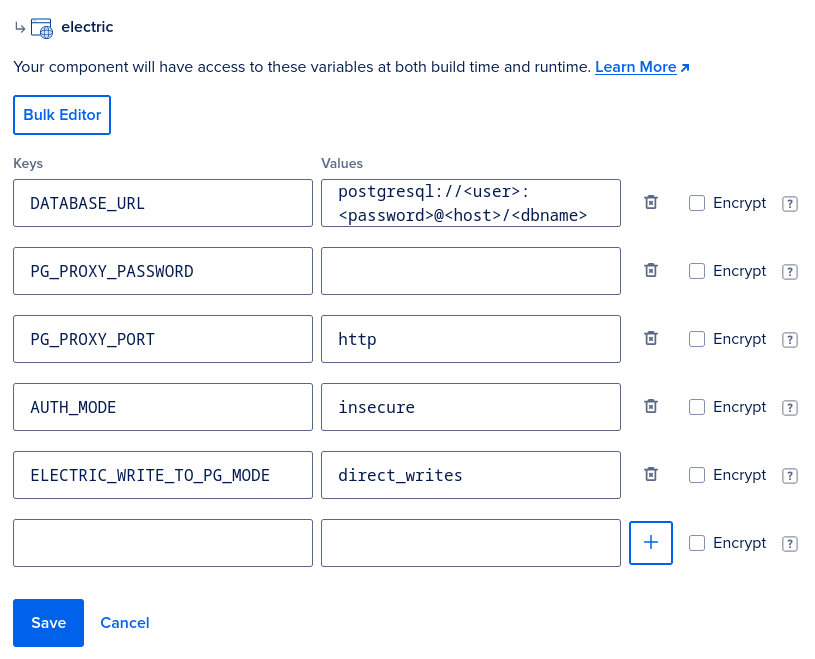
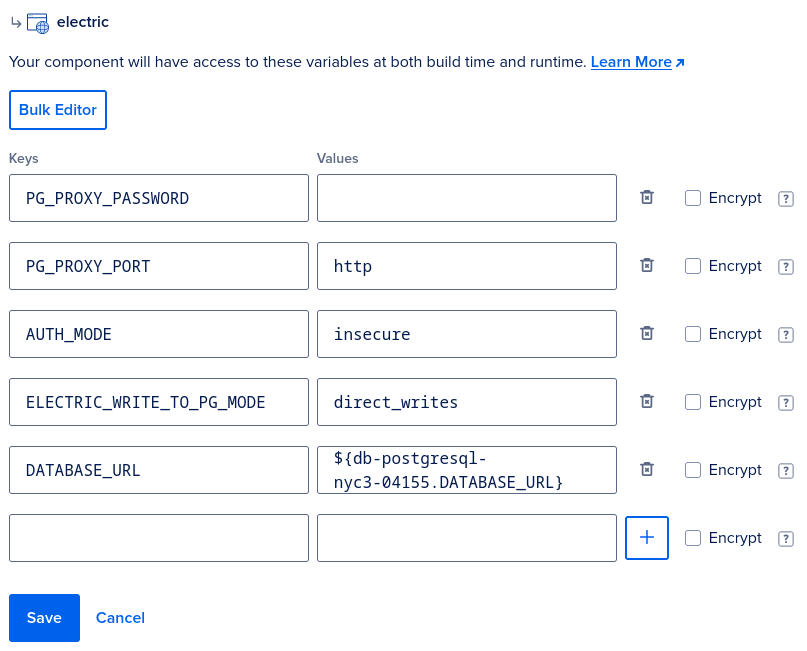
Update DigitalOcean deployment doc

diff --git a/docs/deployment/digital-ocean.md b/docs/deployment/digital-ocean.md
@@ -13,9 +13,13 @@ Make sure you have a DigitalOcean account with billing activated before you foll
 
 App Platform is a Platform-as-a-Service (PaaS) offering that allows developers to publish code directly to DigitalOcean servers without worrying about the underlying infrastructure.
 
-### Deploying Electric
+### Postgres with logical replication
 
-Before deploying Electric, make sure you have a Postgres database with logical replication enabled hosted somewhere where Electric will be able to connect to it. Retrieve your database's connection URI with password included and use it as the value of the `DATABASE_URL` variable when customizing the app.
+Before deploying Electric, you'll need a Postgres database (with logical replication enabled) hosted somewhere Electric can connect to. DigitalOcean offers [Managed PostgreSQL](https://docs.digitalocean.com/products/databases/postgresql/) which would be the easiest way to get started with Electric and a hosted Postgres at the same time, if you don't have one yet. Create a new database cluster and wait for it to become ready before proceeding to the next section.
+
+Alternatively, many other managed database providers support logical replication, see <DocPageLink path="usage/installation/postgres#hosting" /> for some options. If you choose not to use DigitalOcean's Managed PostgreSQL, retrieve your database's connection URI with password included from your provider and use it as the value of the `DATABASE_URL` variable when setting up the app.
+
+### Deploying Electric
 
 Click on the "Deploy to DO" button below to be taken to DigitalOcean's Create App wizard.
 
@@ -25,21 +29,39 @@ Click on the "Deploy to DO" button below to be taken to DigitalOcean's Create Ap
 
 </div>
 
+You may need to log in or create a new account first. Once signed in, you should see the *Resources* page of the Create App wizard.
+
 ![Create App: Resources](./digital-ocean/create-app/resources.png)
 
 Click on the "Edit Plan" button, pick the Basic plan and the Basic instance size. That will be enough to get started.
 
 ![Create App: Edit Plan](./digital-ocean/create-app/edit-plan.png)
 
-Go to the next page and click on the Edit link next to the `electric` service.
+:::info Configuring Managed PostgreSQL
+If you have set up a [Managed PostgreSQL cluster on DigitalOcean](https://docs.digitalocean.com/products/databases/postgresql/) for use with Electric, click on the "Add Resource (Optional)" label, pick the "Database" option and click on the "Add" button.
+
+![Create App: Database Resource](./digital-ocean/create-app/resources-db.png)
+
+Pick your database cluster, name and user from the dropdowns, then click on the "Attach Database" button.
+
+![Create App: Configure Database](./digital-ocean/create-app/resources-db-configure.png)
+:::
+
+Back on the *Resources* page, click on the "Next" button to go to the *Environment Variables* page and click on the "Edit" link next to the `electric` service.
 
 ![Create App: Environment](./digital-ocean/create-app/environment.png)
 
-Fill in the values for `DATABASE_URL` and `PG_PROXY_PASSWORD`. Make sure you pick a strong proxy password as the proxy effectively makes it possible to connect to your database over the public Internet in this particular deployment scenario.
+Fill in the value for `PG_PROXY_PASSWORD`. Make sure you pick a strong proxy password as the proxy effectively makes it possible to connect to your database over the public Internet in this particular deployment scenario.
 
 ![Create App: Edit Environment](./digital-ocean/create-app/env-vars.png)
 
-You can leave the `AUTH_MODE` insecure for now but remember to switch to the secure mode and add a secret signing key before making your app available to users.
+:::info DATABASE_URL
+If you have set up a [Managed PostgreSQL cluster on DigitalOcean](https://docs.digitalocean.com/products/databases/postgresql/) for use with Electric, it will automatically create a `DATABASE_URL` variable for you as shown in the above screenshot.
+
+However, if you want to use a 3rd-party database provider, add the `DATABASE_URL` variable yourself before proceeding to the next step.
+:::
+
+You can leave the `AUTH_MODE` insecure for now but remember to switch to the secure mode and add a [secret signing key](/docs/usage/auth/secure) before making your app available to users.
 
 Click "Save" and go the next page.
 
@@ -47,11 +69,11 @@ Click "Save" and go the next page.
 
 Here you can pick a different region for the app. We recommend choosing the same (or the closest) region to the one where your database is running.
 
-Finally, go to the Review page and click on the "Create Resources" button at the bottom.
+Finally, go to the *Review* page and click on the "Create Resources" button at the bottom.
 
 ![Create App: Review](./digital-ocean/create-app/review.png)
 
-You'll be taken to the new app's Settings tab. Click on the Activity tab to see the deployment status and logs. It should only take a minute before the app goes live.
+You'll be taken to the new app's *Settings* tab. Click on the *Activity* tab to see the deployment status and logs. It should only take a minute before the app goes live.
 
 ![Create App: Activity](./digital-ocean/create-app/activity.png)
 
